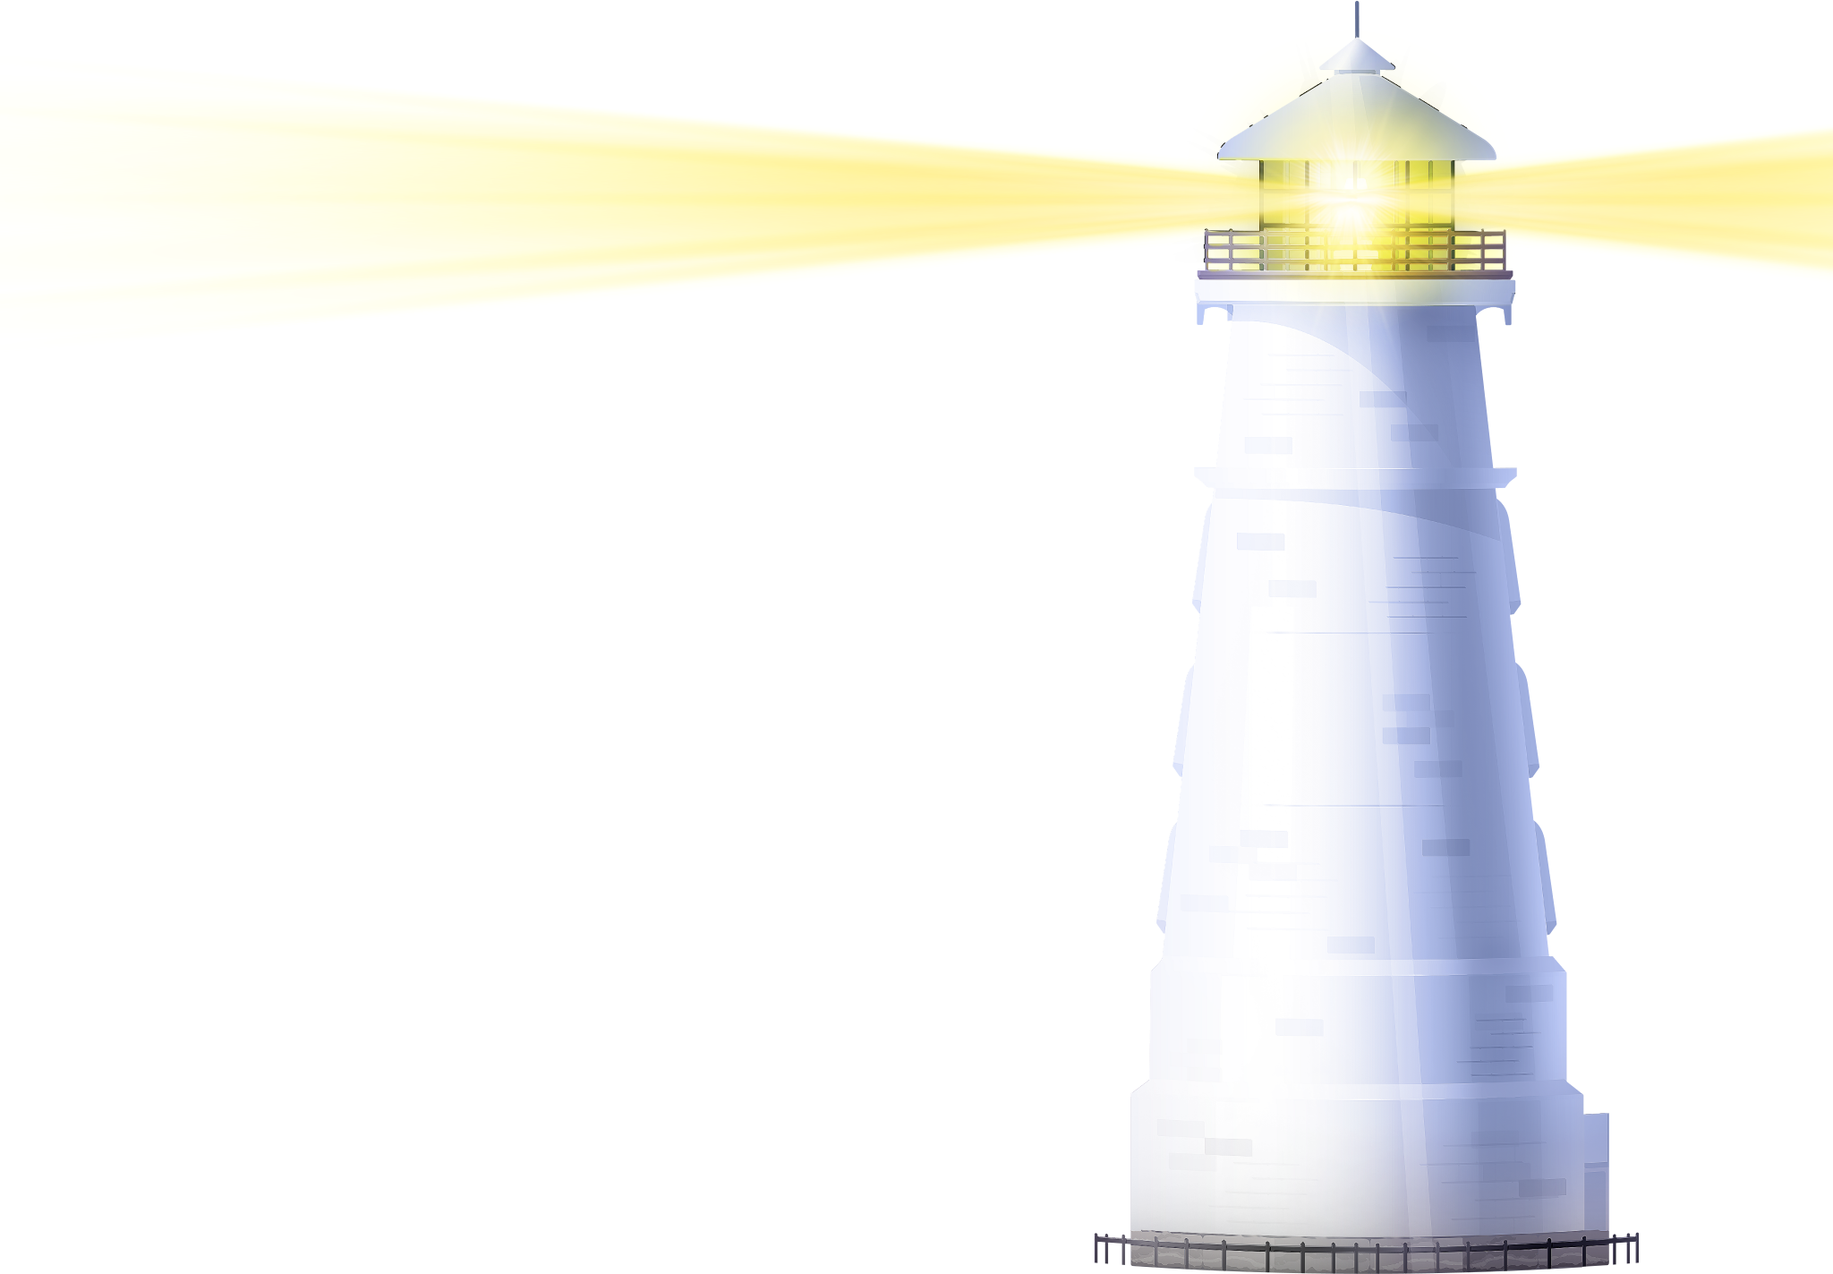
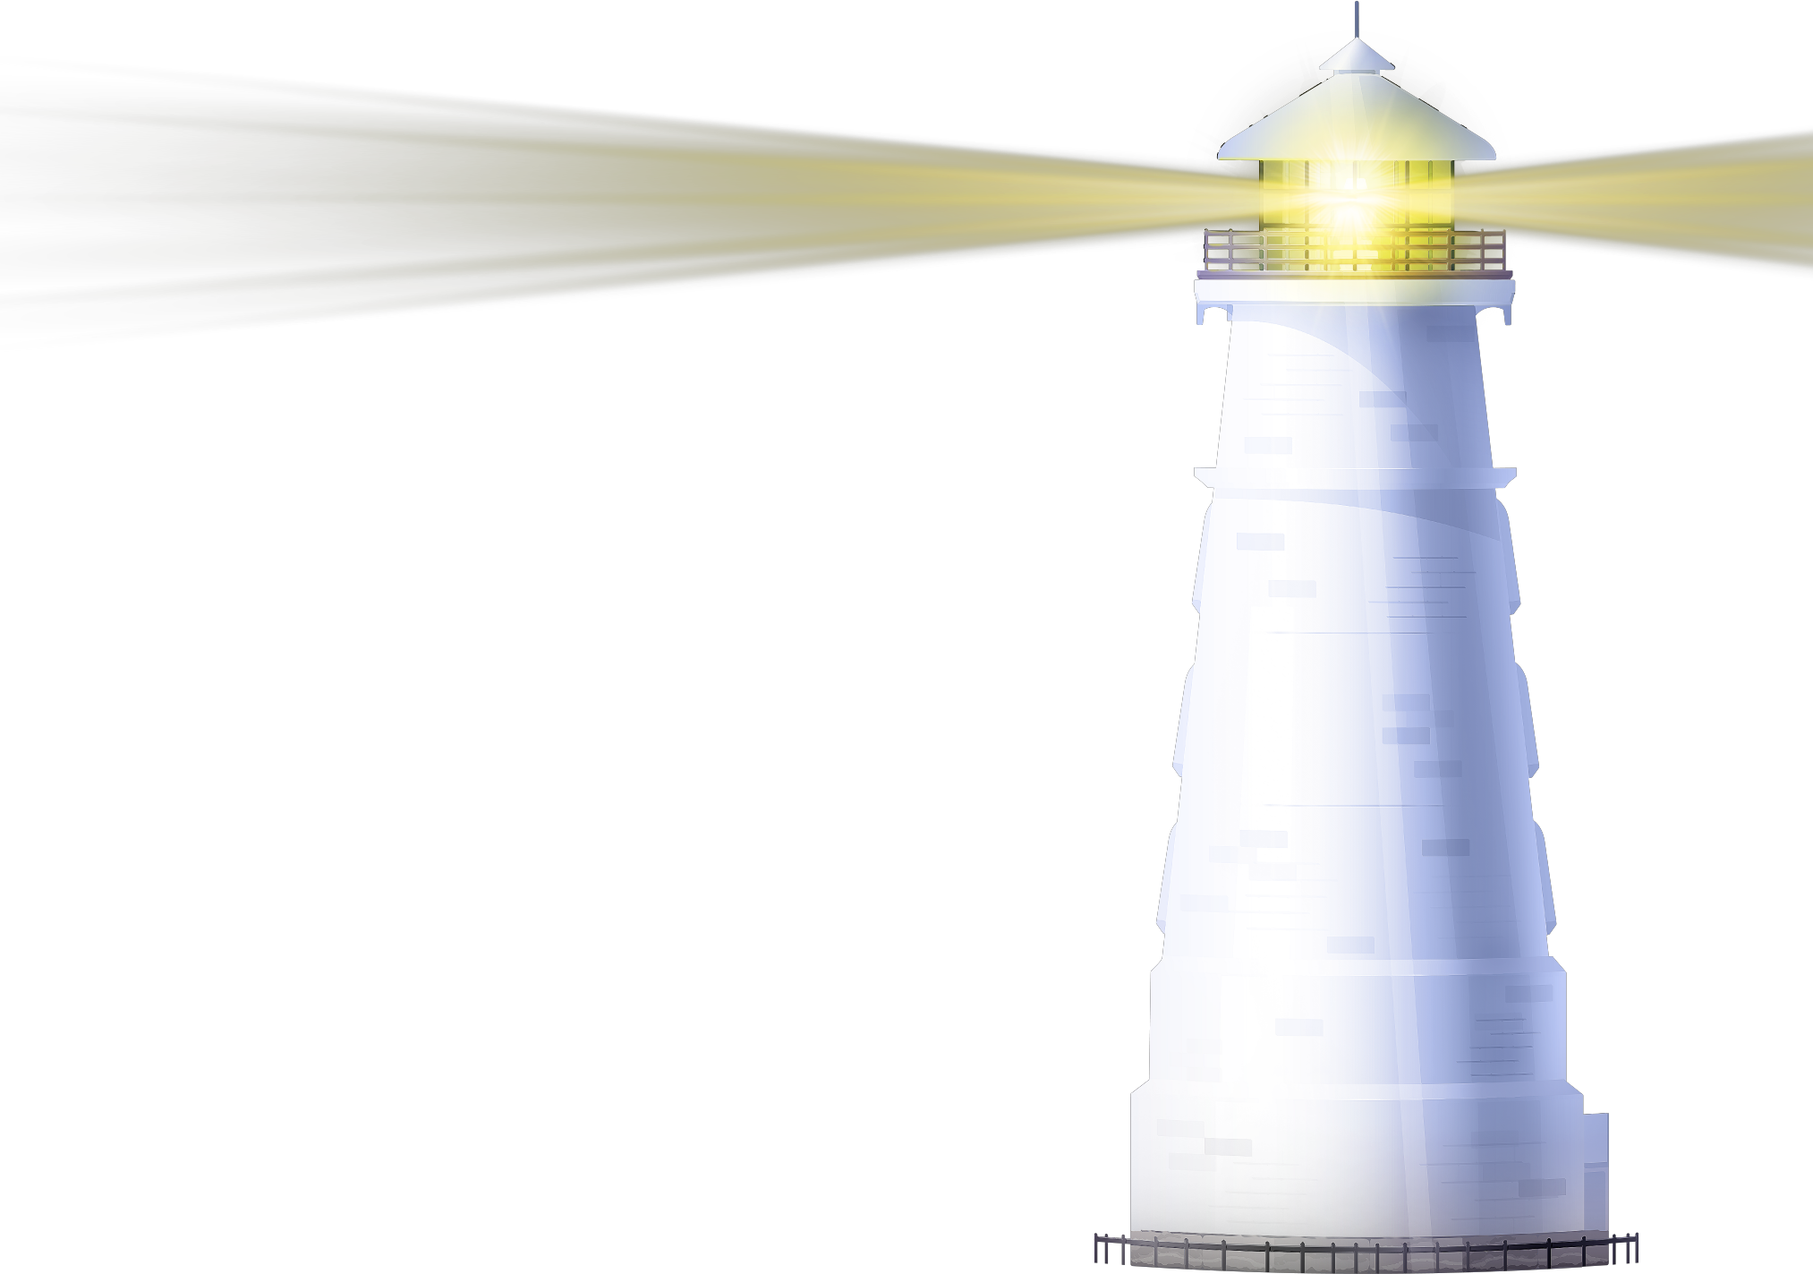
FIX: pic and beacon

Changed region(s): [[0.1244, 0.0309, 1.0, 0.8658], [0.5908, 0.8658, 0.9018, 1.0]]

diff --git a/src/css/style.min.css b/src/css/style.min.css
@@ -1,2 +1,2 @@
-*{padding:0;margin:0;-webkit-box-sizing:border-box;box-sizing:border-box}@font-face{font-family:"Arial";src:url(../fonts/arial.ttf) format("truetype");font-style:normal;font-weight:normal}@font-face{font-family:"Din Condensed";src:url(../fonts/DinCondensedBold.otf) format("opentype");font-style:normal;font-weight:bold}.wrapper{width:1024px;height:768px;background:url("../img/BGday.png") no-repeat;-webkit-transition:10s;transition:10s;position:relative}.wrapper-night{-webkit-transition:4s;transition:4s;background:url("../img/BGnight.png") no-repeat;-webkit-transition-delay:10s;transition-delay:10s}.template img:nth-child(1){position:absolute;top:20px;left:20px}.template img:nth-child(2){position:absolute;top:20px;right:20px}.template img:nth-child(3){position:absolute;bottom:20px;left:20px}.template img:nth-child(4){position:absolute;bottom:20px;right:0;z-index:2}.template img:nth-child(5){position:absolute;top:0;left:140px;width:265px}.template img:nth-child(6){position:absolute;top:45px;left:0px;width:700px;opacity:0}.template img:nth-child(7){position:absolute;top:-55px;right:110px;opacity:0;z-index:1}.stars-active{opacity:1 !important;-webkit-transition:3s;transition:3s;-webkit-transition-delay:10s;transition-delay:10s}.beaconGlow-active{opacity:1 !important;-webkit-transition:3s;transition:3s;-webkit-transition-delay:11s;transition-delay:11s;-webkit-animation:beaconGlow 3s infinite;animation:beaconGlow 3s infinite}@-webkit-keyframes beaconGlow{0%{-webkit-transform:scale(1);transform:scale(1)}50%{-webkit-transform:scale(1.2);transform:scale(1.2)}100%{-webkit-transform:scale(1);transform:scale(1)}}@keyframes beaconGlow{0%{-webkit-transform:scale(1);transform:scale(1)}50%{-webkit-transform:scale(1.2);transform:scale(1.2)}100%{-webkit-transform:scale(1);transform:scale(1)}}.sunGlow-active{-webkit-animation:glow 5s infinite;animation:glow 5s infinite}.sunGlow-disactive{opacity:0;-webkit-transition:3s;transition:3s;-webkit-transition-delay:11s;transition-delay:11s}@-webkit-keyframes glow{0%{-webkit-transform:scale(1);transform:scale(1)}50%{-webkit-transform:scale(1.1);transform:scale(1.1)}100%{-webkit-transform:scale(1);transform:scale(1)}}@keyframes glow{0%{-webkit-transform:scale(1);transform:scale(1)}50%{-webkit-transform:scale(1.1);transform:scale(1.1)}100%{-webkit-transform:scale(1);transform:scale(1)}}.clouds{position:relative;-webkit-transform:translateX(-40%);transform:translateX(-40%)}.clouds img:nth-child(1){position:absolute;top:335px;left:170px;width:230px}.clouds img:nth-child(2){position:absolute;top:320px;left:-245px;width:220px}.clouds img:nth-child(3){position:absolute;top:305px;left:0;width:230px}.clouds img:nth-child(4){position:absolute;top:300px;left:-30px;width:230px}.clouds-active{-webkit-animation:60s clouds;animation:60s clouds}@-webkit-keyframes clouds{0%{-webkit-transform:translateX(-40%);transform:translateX(-40%)}100%{-webkit-transform:translateX(125%);transform:translateX(125%)}}@keyframes clouds{0%{-webkit-transform:translateX(-40%);transform:translateX(-40%)}100%{-webkit-transform:translateX(125%);transform:translateX(125%)}}.first-slide p:nth-child(1){position:absolute;bottom:250px;left:175px;font-family:"Arial";font-size:23pt}.first-slide p:nth-child(2){position:absolute;bottom:250px;right:235px;font-family:"Arial";font-size:23pt;color:#005da8}.first-slide-show p:nth-child(1){-webkit-animation:first 2s;animation:first 2s;-webkit-animation-fill-mode:forwards;animation-fill-mode:forwards}.first-slide-show p:nth-child(2){-webkit-animation:first 2s;animation:first 2s;-webkit-animation-fill-mode:forwards;animation-fill-mode:forwards}@-webkit-keyframes first{0%{bottom:250px}100%{bottom:730px;opacity:0}}@keyframes first{0%{bottom:250px}100%{bottom:730px;opacity:0}}.second-slide{opacity:0}.second-slide p:nth-child(1){position:absolute;bottom:90px;left:115px;font-family:'Arial';width:200px;text-align:center;opacity:0}.second-slide-show{opacity:1}.left-beacon-show{opacity:1 !important;-webkit-transition:1s;transition:1s;-webkit-transition-delay:2s;transition-delay:2s}.st1-text{position:absolute;right:180px;bottom:74px;z-index:1;opacity:0}.st1-text img:nth-child(1){position:static;display:block;margin:0 auto;width:110px}.st1-text p:nth-child(2){font-family:"Din Condensed";font-size:18px;text-align:center;color:#005da8}.st1-text p:nth-child(3){font-family:"Arial";font-size:15px;text-align:center;color:#005da8}.st1-text-show{opacity:1;-webkit-transition:1s;transition:1s;-webkit-transition-delay:2s;transition-delay:2s}.st2{opacity:0}.st2 img:nth-child(1){position:absolute;bottom:179px;right:265px;width:50px}.st2 p:nth-child(2){position:absolute;font-family:"Din Condensed";font-size:18px;text-align:center;color:#005da8;bottom:160px;right:175px}.st2-show{opacity:1;-webkit-transition:1s;transition:1s;-webkit-transition-delay:3s;transition-delay:3s}.st3{opacity:0}.st3 img:nth-child(1){width:50px;position:absolute;bottom:285px;right:265px}.st3 p:nth-child(2){position:absolute;font-family:"Din Condensed";font-size:18px;text-align:center;color:#005da8;bottom:265px;right:190px}.st3 p:nth-child(3){position:absolute;font-family:"Arial";font-size:15px;text-align:center;color:#005da8;bottom:230px;right:190px;width:200px}.st3-show{opacity:1;-webkit-transition:1s;transition:1s;-webkit-transition-delay:4s;transition-delay:4s}.st4{opacity:0}.st4 img:nth-child(1){width:50px;position:absolute;bottom:392px;right:265px}.st4 p:nth-child(2){position:absolute;bottom:334px;right:190px;color:#005da8;font-family:"Arial";font-size:15px;width:200px;text-align:center}.st4 p:nth-child(2) span{font-family:"Din Condensed";font-size:18px}.st4-show{opacity:1;-webkit-transition:1s;transition:1s;-webkit-transition-delay:5s;transition-delay:5s}.st5{opacity:0}.st5 img:nth-child(1){width:50px;position:absolute;bottom:473px;right:265px}.st5 p:nth-child(2){position:absolute;bottom:455px;right:190px;color:#005da8;font-family:"Din Condensed";font-size:18px;width:200px;text-align:center}.st5 p:nth-child(3){position:absolute;bottom:441px;right:190px;color:#005da8;font-family:"Arial";font-size:15px;width:200px;text-align:center}.st5-show{opacity:1;-webkit-transition:1s;transition:1s;-webkit-transition-delay:6s;transition-delay:6s}.st6{opacity:0}.st6 img:nth-child(1){width:50px;position:absolute;bottom:571px;right:265px}.st6 p:nth-child(2){position:absolute;bottom:521px;right:194px;color:#005da8;font-family:"Arial";font-size:14px;width:197px;text-align:center}.st6 p:nth-child(2) span{color:#005da8;font-family:"Din Condensed";font-size:16px}.st6-show{opacity:1;-webkit-transition:1s;transition:1s;-webkit-transition-delay:7s;transition-delay:7s}.night__stage{opacity:0}.night__stage img{position:absolute;bottom:45px;right:-9px;width:1155px;height:721px}.night__stage-show{opacity:1;-webkit-transition:5s;transition:5s;-webkit-transition-delay:10s;transition-delay:10s}.stage img:nth-child(1){width:340px;height:715px;position:absolute;bottom:50px;right:115px;opacity:0}.stage img:nth-child(2){width:340px;height:442px;position:absolute;bottom:50px;right:115px;opacity:0}.stage img:nth-child(3){width:340px;height:365px;position:absolute;bottom:50px;right:115px;opacity:0}.stage img:nth-child(4){width:340px;height:270px;position:absolute;bottom:50px;right:115px;opacity:0}.stage img:nth-child(5){width:340px;height:180px;position:absolute;bottom:50px;right:115px;opacity:0}.stage img:nth-child(6){width:340px;height:115px;position:absolute;bottom:45px;right:115px}.stage-show img:nth-child(1){opacity:1;-webkit-transition:1s;transition:1s;-webkit-transition-delay:7s;transition-delay:7s}.stage-show img:nth-child(2){opacity:1;-webkit-transition:1s;transition:1s;-webkit-transition-delay:6s;transition-delay:6s}.stage-show img:nth-child(3){opacity:1;-webkit-transition:1s;transition:1s;-webkit-transition-delay:5s;transition-delay:5s}.stage-show img:nth-child(4){opacity:1;-webkit-transition:1s;transition:1s;-webkit-transition-delay:4s;transition-delay:4s}.stage-show img:nth-child(5){opacity:1;-webkit-transition:1s;transition:1s;-webkit-transition-delay:3s;transition-delay:3s}
+*{padding:0;margin:0;-webkit-box-sizing:border-box;box-sizing:border-box}.body{overflow-x:hidden}@font-face{font-family:"Arial";src:url(../fonts/arial.ttf) format("truetype");font-style:normal;font-weight:normal}@font-face{font-family:"Din Condensed";src:url(../fonts/DinCondensedBold.otf) format("opentype");font-style:normal;font-weight:bold}.wrapper{width:1024px;height:768px;background:url("../img/BGday.png") no-repeat;-webkit-transition:10s;transition:10s;position:relative}.wrapper-night{-webkit-transition:4s;transition:4s;background:url("../img/BGnight.png") no-repeat;-webkit-transition-delay:10s;transition-delay:10s}.template img:nth-child(1){position:absolute;top:20px;left:20px}.template img:nth-child(2){position:absolute;top:20px;right:20px}.template img:nth-child(3){position:absolute;bottom:20px;left:20px}.template img:nth-child(4){position:absolute;bottom:20px;right:0;z-index:2}.template img:nth-child(5){position:absolute;top:0;left:140px;width:265px}.template img:nth-child(6){position:absolute;top:45px;left:0px;width:700px;opacity:0}.template img:nth-child(7){position:absolute;top:-55px;right:110px;opacity:0;z-index:1}.stars-active{opacity:1 !important;-webkit-animation:stars 5s infinite;animation:stars 5s infinite;-webkit-transition:3s;transition:3s;-webkit-transition-delay:10s;transition-delay:10s}@-webkit-keyframes stars{0%{-webkit-transform:scale(1);transform:scale(1)}50%{-webkit-transform:scale(1.01);transform:scale(1.01)}100%{-webkit-transform:scale(1);transform:scale(1)}}@keyframes stars{0%{-webkit-transform:scale(1);transform:scale(1)}50%{-webkit-transform:scale(1.01);transform:scale(1.01)}100%{-webkit-transform:scale(1);transform:scale(1)}}.beaconGlow-active{opacity:1 !important;-webkit-transition:3s;transition:3s;-webkit-transition-delay:11s;transition-delay:11s;-webkit-animation:beaconGlow 3s infinite;animation:beaconGlow 3s infinite}@-webkit-keyframes beaconGlow{0%{-webkit-transform:scale(1);transform:scale(1)}50%{-webkit-transform:scale(1.2);transform:scale(1.2)}100%{-webkit-transform:scale(1);transform:scale(1)}}@keyframes beaconGlow{0%{-webkit-transform:scale(1);transform:scale(1)}50%{-webkit-transform:scale(1.2);transform:scale(1.2)}100%{-webkit-transform:scale(1);transform:scale(1)}}.sunGlow-active{-webkit-animation:glow 5s infinite;animation:glow 5s infinite}.sunGlow-disactive{opacity:0;-webkit-transition:3s;transition:3s;-webkit-transition-delay:11s;transition-delay:11s}@-webkit-keyframes glow{0%{-webkit-transform:scale(1);transform:scale(1)}50%{-webkit-transform:scale(1.1);transform:scale(1.1)}100%{-webkit-transform:scale(1);transform:scale(1)}}@keyframes glow{0%{-webkit-transform:scale(1);transform:scale(1)}50%{-webkit-transform:scale(1.1);transform:scale(1.1)}100%{-webkit-transform:scale(1);transform:scale(1)}}.clouds{position:relative;-webkit-transform:translateX(-40%);transform:translateX(-40%)}.clouds img:nth-child(1){position:absolute;top:335px;left:170px;width:230px}.clouds img:nth-child(2){position:absolute;top:320px;left:-245px;width:220px}.clouds img:nth-child(3){position:absolute;top:305px;left:0;width:230px}.clouds img:nth-child(4){position:absolute;top:300px;left:-30px;width:230px}.clouds-active{-webkit-animation:60s clouds;animation:60s clouds}@-webkit-keyframes clouds{0%{-webkit-transform:translateX(-40%);transform:translateX(-40%)}100%{-webkit-transform:translateX(125%);transform:translateX(125%)}}@keyframes clouds{0%{-webkit-transform:translateX(-40%);transform:translateX(-40%)}100%{-webkit-transform:translateX(125%);transform:translateX(125%)}}.first-slide p:nth-child(1){position:absolute;bottom:250px;left:175px;font-family:"Arial";font-size:23pt}.first-slide p:nth-child(2){position:absolute;bottom:250px;right:235px;font-family:"Arial";font-size:23pt;color:#005da8}.first-slide-show p:nth-child(1){-webkit-animation:first 2s;animation:first 2s;-webkit-animation-fill-mode:forwards;animation-fill-mode:forwards}.first-slide-show p:nth-child(2){-webkit-animation:first 2s;animation:first 2s;-webkit-animation-fill-mode:forwards;animation-fill-mode:forwards}@-webkit-keyframes first{0%{bottom:250px}100%{bottom:730px;opacity:0}}@keyframes first{0%{bottom:250px}100%{bottom:730px;opacity:0}}.second-slide{opacity:0}.second-slide p:nth-child(1){position:absolute;bottom:90px;left:115px;font-family:'Arial';width:200px;text-align:center;opacity:0}.second-slide-show{opacity:1}.left-beacon-show{opacity:1 !important;-webkit-transition:1s;transition:1s;-webkit-transition-delay:2s;transition-delay:2s}.st1-text{position:absolute;right:180px;bottom:74px;z-index:1;opacity:0}.st1-text img:nth-child(1){position:static;display:block;margin:0 auto;width:116px}.st1-text p:nth-child(2){font-family:"Din Condensed";font-size:18px;text-align:center;color:#005da8}.st1-text p:nth-child(3){font-family:"Arial";font-size:15px;text-align:center;color:#005da8}.st1-text-show{opacity:1;-webkit-transition:1s;transition:1s;-webkit-transition-delay:2s;transition-delay:2s}.st2{opacity:0}.st2 img:nth-child(1){position:absolute;bottom:175px;right:265px;width:53px}.st2 p:nth-child(2){position:absolute;font-family:"Din Condensed";font-size:18px;text-align:center;color:#005da8;bottom:158px;right:175px}.st2-show{opacity:1;-webkit-transition:1s;transition:1s;-webkit-transition-delay:3s;transition-delay:3s}.st3{opacity:0}.st3 img:nth-child(1){width:53px;position:absolute;bottom:276px;right:265px}.st3 p:nth-child(2){position:absolute;font-family:"Din Condensed";font-size:18px;text-align:center;color:#005da8;bottom:260px;right:190px}.st3 p:nth-child(3){position:absolute;font-family:"Arial";font-size:15px;text-align:center;color:#005da8;bottom:227px;right:190px;width:200px}.st3-show{opacity:1;-webkit-transition:1s;transition:1s;-webkit-transition-delay:4s;transition-delay:4s}.st4{opacity:0}.st4 img:nth-child(1){width:53px;position:absolute;bottom:383px;right:265px}.st4 p:nth-child(2){position:absolute;bottom:329px;right:190px;color:#005da8;font-family:"Arial";font-size:15px;width:200px;text-align:center}.st4 p:nth-child(2) span{font-family:"Din Condensed";font-size:18px}.st4-show{opacity:1;-webkit-transition:1s;transition:1s;-webkit-transition-delay:5s;transition-delay:5s}.st5{opacity:0}.st5 img:nth-child(1){width:53px;position:absolute;bottom:468px;right:265px}.st5 p:nth-child(2){position:absolute;bottom:451px;right:190px;color:#005da8;font-family:"Din Condensed";font-size:18px;width:200px;text-align:center}.st5 p:nth-child(3){position:absolute;bottom:437px;right:190px;color:#005da8;font-family:"Arial";font-size:15px;width:200px;text-align:center}.st5-show{opacity:1;-webkit-transition:1s;transition:1s;-webkit-transition-delay:6s;transition-delay:6s}.st6{opacity:0}.st6 img:nth-child(1){width:53px;position:absolute;bottom:574px;right:265px}.st6 p:nth-child(2){position:absolute;bottom:523px;right:194px;color:#005da8;font-family:"Arial";font-size:14px;width:197px;text-align:center}.st6 p:nth-child(2) span{color:#005da8;font-family:"Din Condensed";font-size:16px}.st6-show{opacity:1;-webkit-transition:1s;transition:1s;-webkit-transition-delay:7s;transition-delay:7s}.night__stage{opacity:0}.night__stage img{position:absolute;bottom:45px;right:0px;width:1155px;height:721px}.night__stage-show{opacity:1;-webkit-transition:5s;transition:5s;-webkit-transition-delay:10s;transition-delay:10s}.stage img:nth-child(1){width:340px;height:715px;position:absolute;bottom:50px;right:115px;opacity:0}.stage img:nth-child(2){width:340px;height:442px;position:absolute;bottom:50px;right:115px;opacity:0}.stage img:nth-child(3){width:340px;height:365px;position:absolute;bottom:50px;right:115px;opacity:0}.stage img:nth-child(4){width:340px;height:270px;position:absolute;bottom:50px;right:115px;opacity:0}.stage img:nth-child(5){width:340px;height:180px;position:absolute;bottom:50px;right:115px;opacity:0}.stage img:nth-child(6){width:340px;height:115px;position:absolute;bottom:45px;right:115px}.stage-show{opacity:0;-webkit-transition:5s;transition:5s;-webkit-transition-delay:10s;transition-delay:10s}.stage-show img:nth-child(1){opacity:1;-webkit-transition:1s;transition:1s;-webkit-transition-delay:7s;transition-delay:7s}.stage-show img:nth-child(2){opacity:1;-webkit-transition:1s;transition:1s;-webkit-transition-delay:6s;transition-delay:6s}.stage-show img:nth-child(3){opacity:1;-webkit-transition:1s;transition:1s;-webkit-transition-delay:5s;transition-delay:5s}.stage-show img:nth-child(4){opacity:1;-webkit-transition:1s;transition:1s;-webkit-transition-delay:4s;transition-delay:4s}.stage-show img:nth-child(5){opacity:1;-webkit-transition:1s;transition:1s;-webkit-transition-delay:3s;transition-delay:3s}
 /*# sourceMappingURL=style.min.css.map */

diff --git a/src/sass/style.sass b/src/sass/style.sass
@@ -3,6 +3,9 @@
     margin: 0
     box-sizing: border-box
 
+.body
+    overflow-x: hidden
+
 @font-face
     font-family: "Arial"
     src: url(../fonts/arial.ttf) format("truetype")
@@ -74,8 +77,20 @@
 
 .stars-active
     opacity: 1 !important
+    animation: stars 5s infinite
     transition: 3s
     transition-delay: 10s
+
+
+@keyframes stars 
+    0%
+        transform: scale(1)
+
+    50%
+        transform: scale(1.01)
+
+    100%
+        transform: scale(1)
 
 .beaconGlow-active
     opacity: 1 !important
@@ -223,7 +238,7 @@
         position: static
         display: block
         margin: 0 auto
-        width: 110px
+        width: 116px
         
     & p:nth-child(2)   
         font-family: "Din Condensed"
@@ -247,9 +262,9 @@
 
     & img:nth-child(1)
         position: absolute
-        bottom: 179px
+        bottom: 175px
         right: 265px
-        width: 50px
+        width: 53px
 
     & p:nth-child(2)
         position: absolute
@@ -257,7 +272,7 @@
         font-size: 18px
         text-align: center
         color: #005da8
-        bottom: 160px
+        bottom: 158px
         right: 175px
 
 .st2-show
@@ -269,9 +284,9 @@
     opacity: 0
 
     & img:nth-child(1)
-        width: 50px
+        width: 53px
         position: absolute
-        bottom: 285px
+        bottom: 276px
         right: 265px
         
     & p:nth-child(2)
@@ -280,7 +295,7 @@
         font-size: 18px
         text-align: center
         color: #005da8
-        bottom: 265px
+        bottom: 260px
         right: 190px    
 
     & p:nth-child(3)
@@ -289,7 +304,7 @@
         font-size: 15px
         text-align: center
         color: #005da8
-        bottom: 230px
+        bottom: 227px
         right: 190px
         width: 200px
         
@@ -303,14 +318,14 @@
     opacity: 0
 
     & img:nth-child(1)
-        width: 50px
+        width: 53px
         position: absolute
-        bottom: 392px
+        bottom: 383px
         right: 265px
 
     & p:nth-child(2)
         position: absolute
-        bottom: 334px
+        bottom: 329px
         right: 190px
         color: #005da8
         font-family: "Arial"
@@ -331,14 +346,14 @@
     opacity: 0
 
     & img:nth-child(1)
-        width: 50px
+        width: 53px
         position: absolute
-        bottom: 473px
+        bottom: 468px
         right: 265px
 
     & p:nth-child(2)
         position: absolute
-        bottom: 455px
+        bottom: 451px
         right: 190px
         color: #005da8
         font-family: "Din Condensed"
@@ -348,7 +363,7 @@
 
     & p:nth-child(3)
         position: absolute
-        bottom: 441px
+        bottom: 437px
         right: 190px
         color: #005da8
         font-family: "Arial"
@@ -365,14 +380,14 @@
     opacity: 0
 
     & img:nth-child(1)
-        width: 50px
+        width: 53px
         position: absolute
-        bottom: 571px
+        bottom: 574px
         right: 265px
 
     & p:nth-child(2)
         position: absolute
-        bottom: 521px
+        bottom: 523px
         right: 194px
         color: #005da8
         font-family: "Arial"
@@ -397,7 +412,7 @@
     & img
         position: absolute
         bottom: 45px
-        right: -9px
+        right: 0px
         width: 1155px
         height: 721px
 
@@ -456,6 +471,10 @@
         right: 115px
 
     &-show
+
+        opacity: 0
+        transition: 5s
+        transition-delay: 10s
 
         & img:nth-child(1)
             opacity: 1
